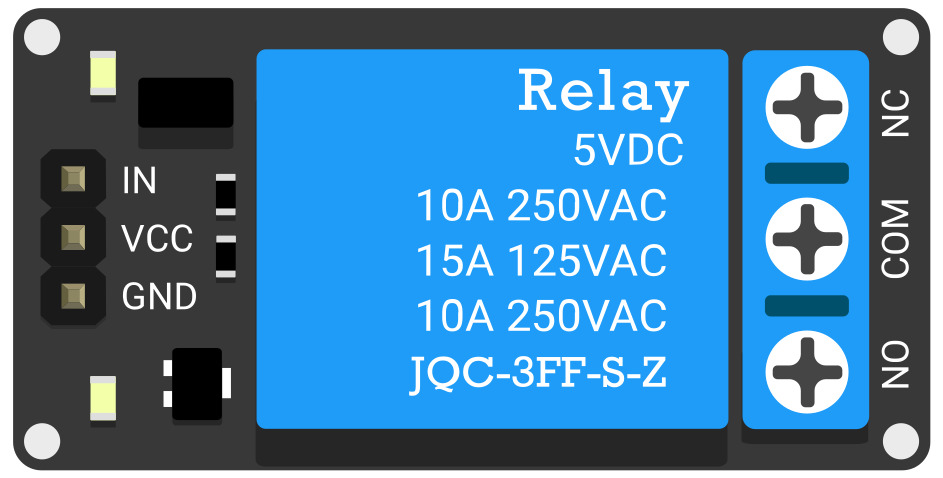
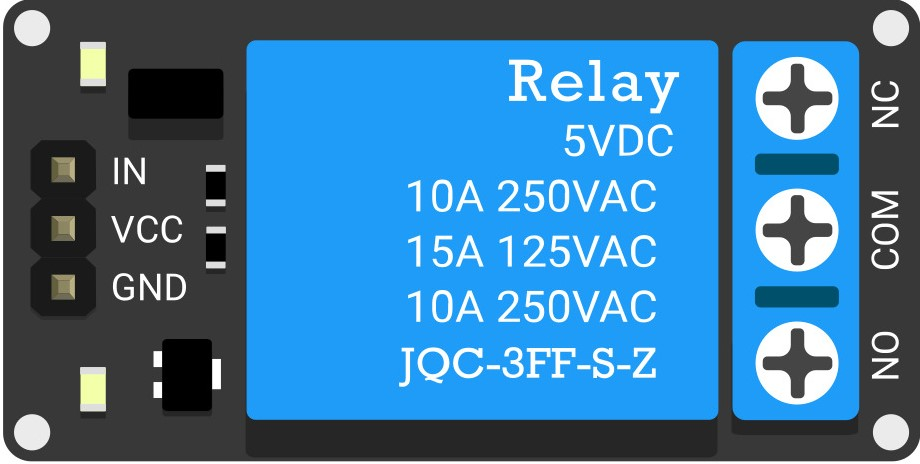
updated picture

diff --git a/blutooth-home-light.md b/blutooth-home-light.md
@@ -127,7 +127,7 @@ When the Bluetooth application's button turns ON, it sets the home light ON, and
 
 
 
-<img src="https://github.com/Sajeev-07/bluetooth-home-light/blob/main/pictures/blutooth-connect.jpg?raw=true" width="" alt="alt_text" title="image_tooltip">
+<img src="https://github.com/Sajeev-07/bluetooth-home-light/blob/main/pictures/blutooth-connect.jpg?raw=true" width="298.56" height="218.88" alt="alt_text" title="image_tooltip">
 
 </p>
 <p>
@@ -165,7 +165,7 @@ The connection or interfacing of the module is as follows:
 
             
 
-<img src="https://github.com/Sajeev-07/bluetooth-home-light/blob/main/pictures/relay.jpg?raw=true" width="" alt="alt_text" title="image_tooltip">
+<img src="https://github.com/Sajeev-07/bluetooth-home-light/blob/main/pictures/relay.jpg?raw=true" width="288" height="136.32" alt="alt_text" title="image_tooltip">
 
 </p>
 <p>
